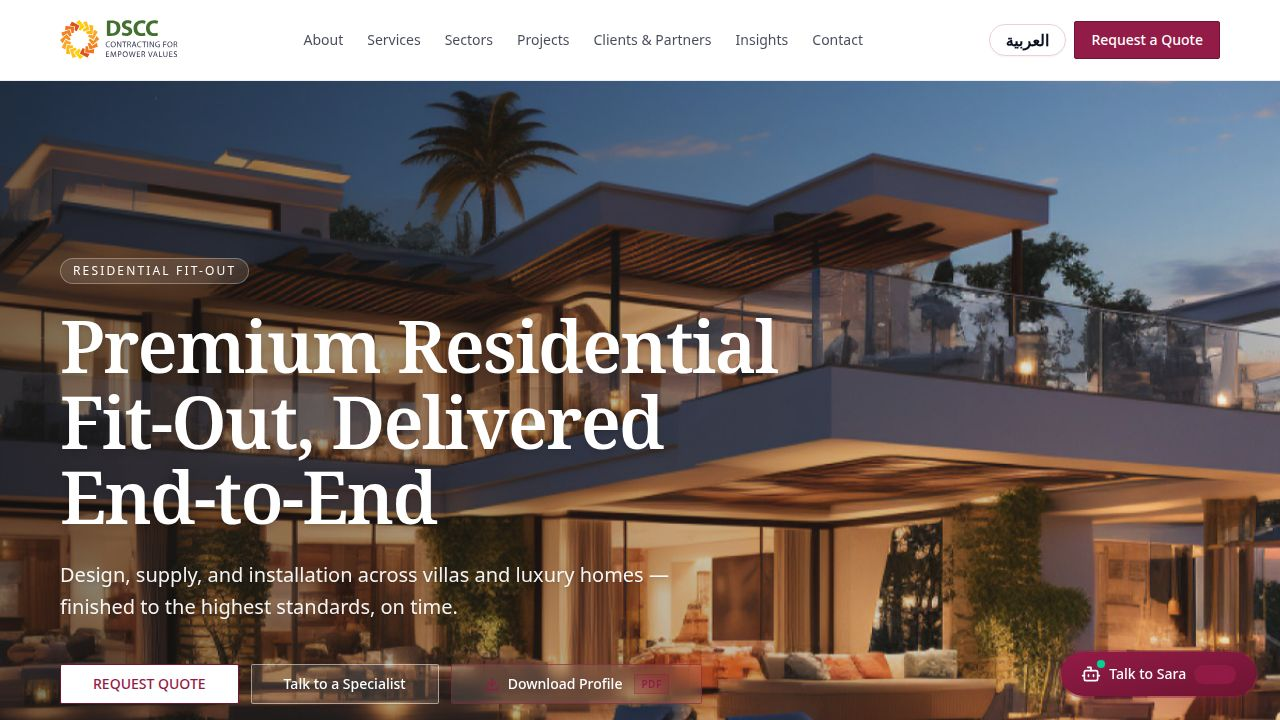
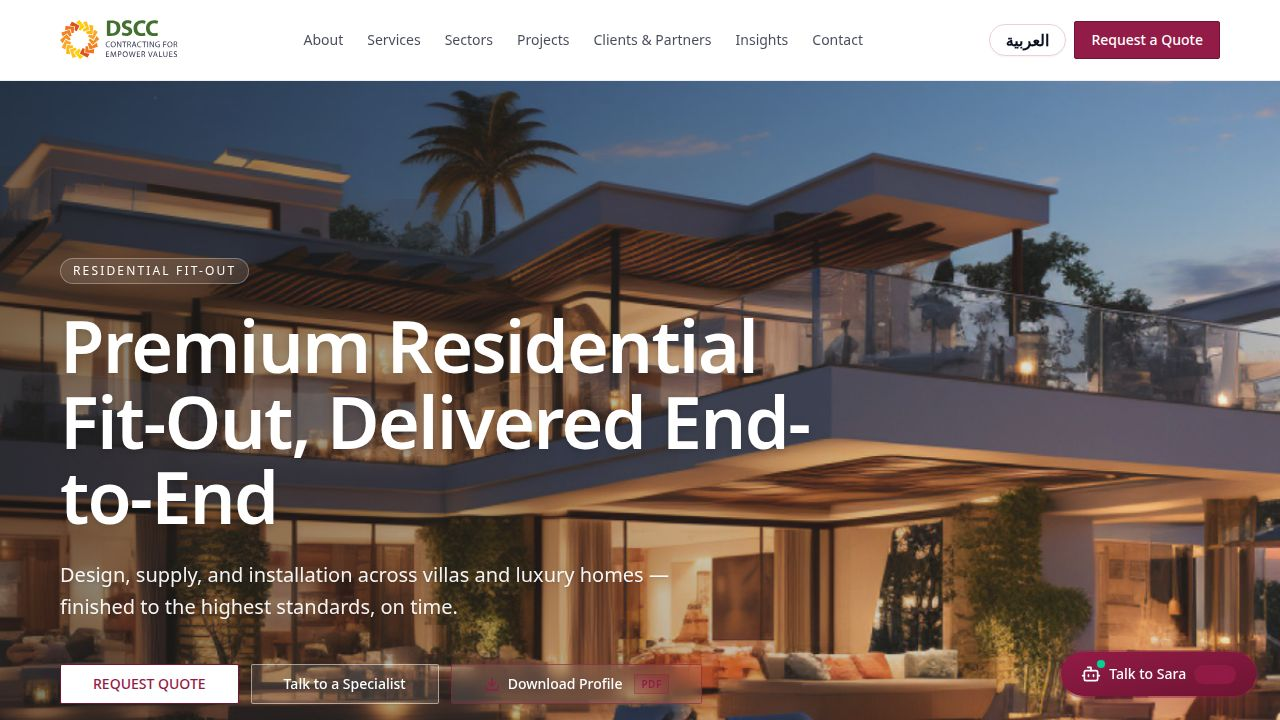
Set Arabic as the default language and improve font loading on mobile
Update HTML to default to Arabic, preload fonts, and ensure Cairo is universally applied to fix mobile font rendering issues.

Replit-Commit-Author: Agent
Replit-Commit-Session-Id: 658659e9-b3ed-4a31-a488-48f7f50aea26
Replit-Commit-Checkpoint-Type: full_checkpoint
Replit-Commit-Event-Id: 9c2e7374-32ad-429c-9989-15bb1405c487
Replit-Commit-Screenshot-Url: https://storage.googleapis.com/screenshot-production-us-central1/0006ffab-964b-4cdd-97f3-b2f3bfe0b147/658659e9-b3ed-4a31-a488-48f7f50aea26/bHvoP72
Replit-Helium-Checkpoint-Created: true

Changed region(s): [[0.0312, 0.55, 0.625, 0.7333], [0.0312, 0.4278, 0.625, 0.5194]]

diff --git a/artifacts/dscc-website/src/index.css b/artifacts/dscc-website/src/index.css
@@ -1,4 +1,4 @@
-@import url('https://fonts.googleapis.com/css2?family=Inter:wght@300;400;500;600&family=Fraunces:opsz,wght@9..144,300;400;500;600&family=Tajawal:wght@300;400;500;700&family=Cairo:wght@300;400;600;700&display=swap');
+/* Fonts are loaded via <link> in index.html (preloaded) — no @import here to avoid mobile latency */
 @import "tailwindcss";
 @import "tw-animate-css";
 @plugin "@tailwindcss/typography";
@@ -125,8 +125,8 @@
   --chart-4: 338 50% 55%;
   --chart-5: 200 35% 45%;
 
-  --app-font-sans: 'Inter', 'Cairo', 'Tajawal', sans-serif;
-  --app-font-serif: 'Fraunces', 'Cairo', serif;
+  --app-font-sans: 'Cairo', 'Inter', 'Tajawal', system-ui, sans-serif;
+  --app-font-serif: 'Cairo', 'Fraunces', system-ui, serif;
   --app-font-mono: Menlo, monospace;
   --radius: 0.25rem;
 
@@ -265,12 +265,12 @@
     @apply font-sans antialiased bg-background text-foreground;
   }
 
-  /* Arabic: force Cairo on every element so mobile (esp. iOS) doesn't fall back
-     to system Arabic fonts via the Tajawal fallback in --font-sans. */
-  html[lang="ar"],
-  html[lang="ar"] body,
-  html[lang="ar"] *:not(i):not(svg):not(.font-arabic) {
-    font-family: 'Cairo', 'Tajawal', system-ui, sans-serif !important;
+  /* Apply Cairo unconditionally so mobile (esp. iOS) never falls back to a
+     system Arabic font. Cairo also has full Latin coverage so English text
+     stays readable; explicit Inter/Fraunces still works via .font-arabic /
+     .font-serif and Latin-only blocks where Inter is listed first. */
+  html, body, button, input, textarea, select, p, span, div, li, a, h1, h2, h3, h4, h5, h6 {
+    font-family: 'Cairo', 'Inter', 'Tajawal', system-ui, -apple-system, sans-serif;
   }
 
   html[lang="ar"] .font-serif,

diff --git a/artifacts/dscc-website/index.html b/artifacts/dscc-website/index.html
@@ -1,5 +1,5 @@
 <!DOCTYPE html>
-<html lang="en">
+<html lang="ar" dir="rtl">
   <head>
     <meta charset="UTF-8" />
     <meta name="viewport" content="width=device-width, initial-scale=1.0, maximum-scale=1" />
@@ -7,7 +7,12 @@
     <link rel="icon" type="image/svg+xml" href="/favicon.svg" />
     <link rel="preconnect" href="https://fonts.googleapis.com">
     <link rel="preconnect" href="https://fonts.gstatic.com" crossorigin>
-    <link href="https://fonts.googleapis.com/css2?family=Inter:wght@300;400;500;600;700&family=Fraunces:opsz,wght@9..144,300;400;500;600;700&family=Tajawal:wght@300;400;500;700&family=Cairo:wght@300;400;600;700&display=swap" rel="stylesheet">
+    <link rel="preload" as="style" href="https://fonts.googleapis.com/css2?family=Cairo:wght@300;400;500;600;700;800&family=Inter:wght@300;400;500;600;700&family=Fraunces:opsz,wght@9..144,300;400;500;600;700&display=swap">
+    <link href="https://fonts.googleapis.com/css2?family=Cairo:wght@300;400;500;600;700;800&family=Inter:wght@300;400;500;600;700&family=Fraunces:opsz,wght@9..144,300;400;500;600;700&display=swap" rel="stylesheet">
+    <style>
+      /* Inline early so Cairo is applied before the bundled CSS arrives on mobile */
+      html, body { font-family: 'Cairo', 'Tajawal', system-ui, -apple-system, sans-serif; }
+    </style>
   </head>
   <body>
     <div id="root"></div>